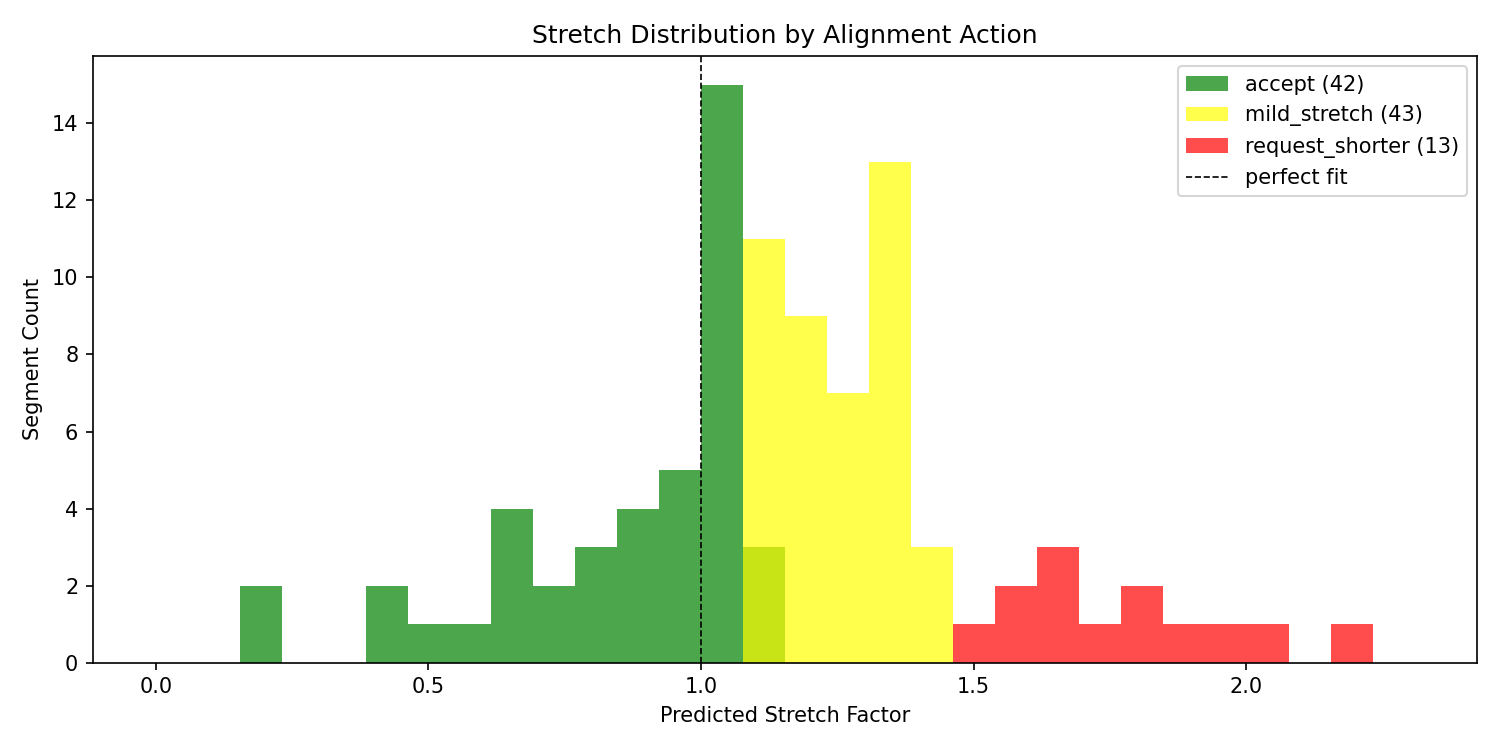
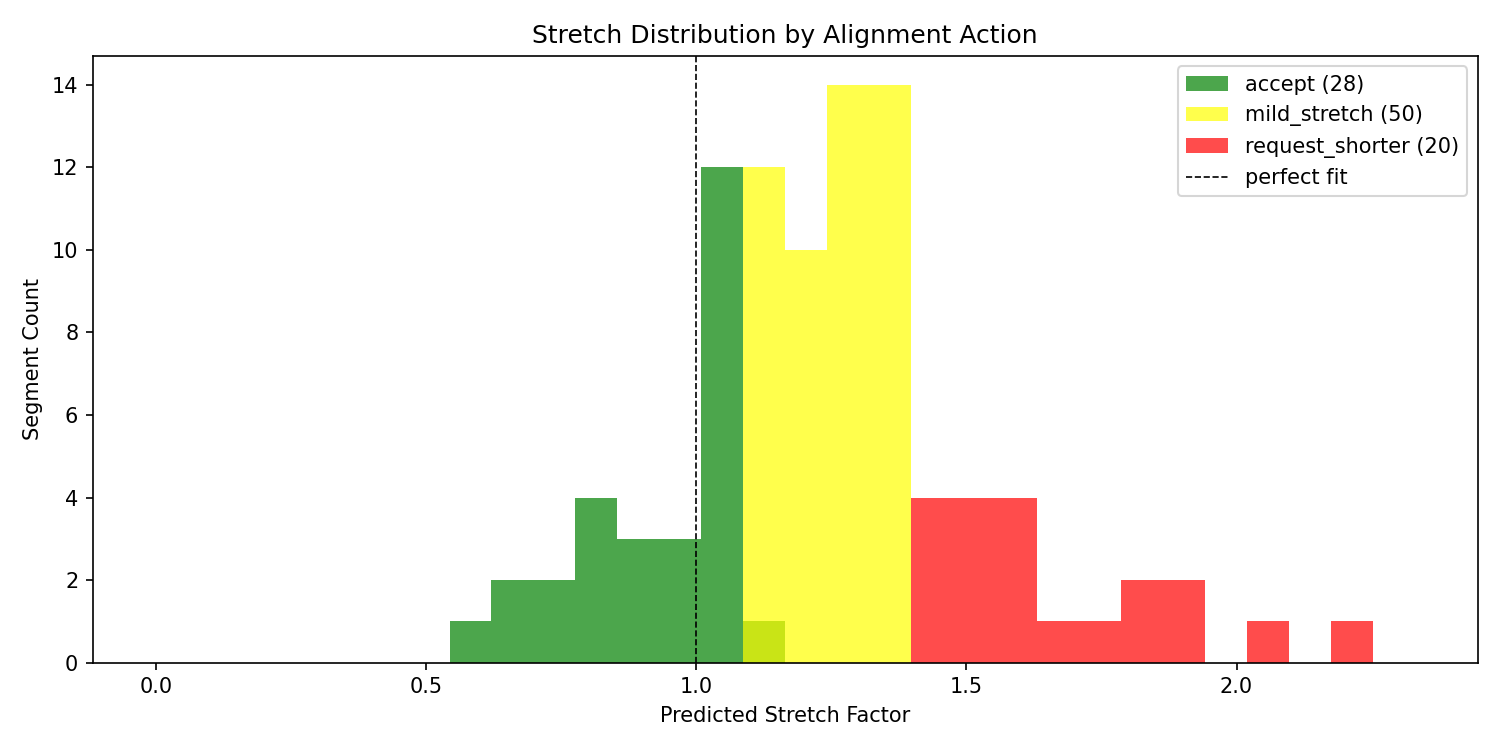
feat: better duration estimator based on regression model

diff --git a/foreign_whispers/alignment.py b/foreign_whispers/alignment.py
@@ -33,12 +33,18 @@ def _count_syllables(text: str) -> int:
     return max(1, len(clusters))
 
 
-_SYLLABLE_RATE = 4.5  # syllables per second for Romance languages
-
-
 def _estimate_duration(text: str) -> float:
-    """Estimate TTS duration in seconds using a syllable-rate heuristic."""
-    return _count_syllables(text) / _SYLLABLE_RATE
+    """Estimate TTS duration in seconds.
+
+    Linear regression fit on 60 ground-truth Chatterbox TTS segments
+    (Spanish, Strait of Hormuz video). MAE 0.44s vs 1.24s for the old heuristic.
+    """
+    # Old syllable-rate heuristic (MAE 1.24s):
+    # return _count_syllables(text) / 4.5
+    syllables = _count_syllables(text)
+    words = len(text.split())
+    chars = len(text)
+    return max(0.1, 0.0648 * syllables + 0.1144 * words + 0.0266 * chars + 0.5891)
 
 
 @dataclasses.dataclass
